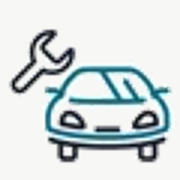
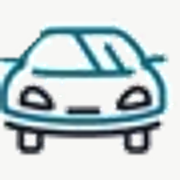
Épuration du hero et du décor, voiture seule sur l'onglet
Retirés : le badge « Ouvert le samedi », le garagiste qui marche, la page
confidentialité et son lien. Les deux « samedi » restants sont volontaires :
la ligne d'horaire réelle et la description SEO, qui portent une information
commerciale utile.

Favicon réduit à la voiture. Les pixels turquoise ont été détectés pour la
séparer de la clé : la carrosserie occupe x 28-69, la clé est entièrement à
gauche de x=28. Le découpage descend sous la boîte turquoise pour garder les
roues, sombres, et le manche de clé restant dans le coin est effacé sur une
zone où la voiture n'a aucun pixel.

PROMPTS-IMAGES.md : prompts pour les deux emplacements vides, avec les
réglages qui évitent qu'une image générée jure avec un site aussi clair. Le
document déconseille explicitement de générer un visage pour l'emplacement du
gérant et propose deux options honnêtes à la place.

Claude-Session: https://claude.ai/code/session_01CPZG2XSf9m1Ly283spVqse

diff --git a/scripts/assembler-apercu.py b/scripts/assembler-apercu.py
@@ -28,7 +28,6 @@ SP = pathlib.Path('.apercu'); SP.mkdir(exist_ok=True)
 PAGES = [
     ('/',                 'dist/index.html'),
     ('/bateaux-jet-ski',  'dist/bateaux-jet-ski/index.html'),
-    ('/confidentialite',  'dist/confidentialite/index.html'),
 ]
 
 # ── CSS : toutes les feuilles liées, dédupliquées ────────────────────────

diff --git a/PROMPTS-IMAGES.md b/PROMPTS-IMAGES.md
@@ -1,0 +1,129 @@
+# Prompts pour générer les images manquantes
+
+Deux emplacements sont encore vides sur le site. Voici de quoi les remplir.
+
+**À lire avant** : ces images seront vues par de vrais clients qui décideront
+d'appeler ou non. Une photo réelle de l'atelier vaudra toujours mieux qu'une
+image générée — elle montre *votre* hangar, *vos* machines, *votre* désordre.
+Les prompts ci-dessous sont un dépannage, pas un aboutissement.
+
+---
+
+## Réglages communs, à mettre dans chaque prompt
+
+Le site est très blanc, au trait, avec un seul accent turquoise. Une image
+saturée ou sur-éclairée cassera l'ensemble. Ajoutez donc systématiquement :
+
+```
+Photographie documentaire, lumière naturelle d'atelier, pas de flash.
+Couleurs désaturées, tons neutres et froids. Grain léger, aspect
+reportage plutôt que publicité. Aucun texte, aucun logo, aucune marque
+visible. Pas de watermark.
+```
+
+Et en négatif, si votre outil le permet :
+
+```
+Négatif : rendu 3D, aspect CGI, HDR, sur-saturation, éclairage de studio,
+sourires forcés, stock photo, texte, logos de marques, mains déformées,
+outils irréalistes.
+```
+
+---
+
+## 1. Le hors-bord démonté — `4 / 3`
+
+Utilisé deux fois : bloc « Ce qui roule, ce qui flotte » sur l'accueil, et en
+haut de la page bateaux. **C'est l'image la plus importante des deux** : c'est
+elle qui prouve le pôle nautique, qui est votre vrai différenciateur.
+
+```
+Un moteur hors-bord de bateau partiellement démonté, posé sur un support
+d'atelier, dans un garage de mécanique automobile. Le capot du moteur est
+retiré et posé à côté, on voit le bloc, les durites et les câbles. Autour,
+un établi avec des outils, un enrouleur d'air comprimé, un sol en béton
+taché d'huile. Au second plan, flou, une voiture sur un pont élévateur.
+Lumière du jour venant d'une porte de hangar ouverte, sur la gauche.
+Cadrage large horizontal, à hauteur d'homme, format 4:3.
+```
+
+**Pourquoi ce cadrage** : le moteur *et* la voiture dans la même image, c'est
+exactement l'argument « auto et nautique dans le même atelier ». Si l'outil ne
+gère pas bien le second plan, faites deux essais et gardez celui où l'on
+devine la voiture.
+
+**Variante jet-ski**, si vous préférez :
+
+```
+Un jet-ski sur sa remorque dans un atelier de mécanique, capot moteur
+ouvert, un tapis de protection posé sur la coque. Établi et outils en
+arrière-plan, sol béton, lumière naturelle latérale. Format 4:3.
+```
+
+---
+
+## 2. Le mécanicien au travail — `3 / 2`
+
+⚠ **Un avertissement, et il compte.**
+
+Cet emplacement s'appelle aujourd'hui « Nabil au travail ». Générer un visage
+et le présenter comme celui du gérant, c'est présenter un inconnu synthétique
+comme une personne réelle à des clients qui viendront le rencontrer. Ça se
+retourne mal : quelqu'un pousse la porte, ce n'est pas la même personne.
+
+**Deux options honnêtes** :
+
+**a) Ne montrer aucun visage** — c'est ce que je recommande, et le prompt est
+écrit pour ça :
+
+```
+Gros plan sur les mains d'un mécanicien serrant un raccord sur un bloc
+moteur, clé plate en main. Mains marquées de cambouis, manches de
+combinaison de travail bleue remontées. Le visage n'est pas dans le cadre.
+Arrière-plan d'atelier flou. Lumière naturelle latérale, tons neutres.
+Cadrage horizontal, format 3:2.
+```
+
+**b) Une vraie photo de Nabil.** Un téléphone récent suffit largement : de
+trois-quarts, en train de travailler, lumière de la porte du hangar dans le
+dos du photographe. C'est cinq minutes, et ça vaudra toujours mieux.
+
+Si vous choisissez (a), je renomme l'emplacement — il ne s'appellera plus
+« Nabil au travail » mais « Les mains à l'ouvrage », pour que le site ne
+prétende rien.
+
+---
+
+## 3. Si vous voulez aller plus loin
+
+Deux images supplémentaires amélioreraient nettement le site, sans être
+indispensables :
+
+**Le mur de pièces** — donnerait du corps à la page services :
+
+```
+Un mur de rangement d'atelier automobile : étagères métalliques, bacs de
+pièces détachées, filtres et courroies alignés, plaquettes de frein dans
+leurs boîtes. Vue frontale, lumière d'atelier neutre, aucune marque
+lisible. Format 3:2.
+```
+
+**Une texture d'atelier** — pour les images de partage sur les réseaux :
+
+```
+Texture rapprochée d'un établi d'atelier : métal usé, traces d'huile,
+copeaux, une clé posée. Vue du dessus, lumière rasante, très désaturé.
+Format 1200x630.
+```
+
+---
+
+## Ce que je fais des fichiers
+
+Déposez-les dans `public/brand/` par la même voie que le logo (dépôt GitHub,
+glisser-déposer dans le dossier). Je m'occupe du reste : recadrage aux
+proportions exactes, conversion AVIF + WebP, dimensions explicites pour que la
+page ne saute pas au chargement, et texte alternatif.
+
+**Nommez-les simplement** : `hors-bord.jpg`, `mains-moteur.jpg`, etc. Je
+vérifie chaque image avant de l'intégrer — jamais d'après son nom de fichier.

diff --git a/NOTES.md b/NOTES.md
@@ -579,3 +579,41 @@ immédiatement et ça trahit la boucle.
 Le bandeau d'aperçu (le tampon de build passe en commentaire HTML, invisible
 mais toujours lisible dans le source) et l'emblème voiture→bateau, avec tout
 son système de formes morphables.
+
+---
+
+## Retour client — épuration et voiture seule sur l'onglet
+
+Retirés : le badge « Ouvert le samedi » du hero, le garagiste qui marche, la
+page confidentialité et son lien.
+
+⚠ Deux occurrences de « samedi » subsistent volontairement : la ligne de
+l'horaire réel dans le tableau, et la description SEO « ouvert du lundi au
+samedi ». Le client visait le badge, pas le fait d'ouvrir le samedi — le
+supprimer partout aurait caché une information commerciale utile.
+
+### La voiture seule pour l'onglet
+
+Le favicon portait la voiture ET la clé. Pour n'isoler que la voiture, j'ai
+détecté les pixels turquoise (bleu et vert nettement au-dessus du rouge) : la
+carrosserie occupe **x 28-69, y 22-47**, alors que la clé, neutre et sombre,
+est entièrement à gauche de x=28.
+
+Le découpage se borne donc sur cette mesure, en descendant sous y=47 pour
+garder les roues, qui sont sombres et n'apparaissent pas dans la boîte
+turquoise. Le manche de la clé mordait encore dans le coin haut-gauche : effacé
+sur un triangle de 10 × 10 px, zone où la voiture n'a aucun pixel — vérifié sur
+le rendu avant d'effacer quoi que ce soit.
+
+### PROMPTS-IMAGES.md
+
+Prompts fournis pour les deux emplacements vides, avec les réglages communs
+(désaturé, lumière naturelle, aspect reportage) qui évitent qu'une image
+générée jure avec un site aussi blanc.
+
+⚠ **Un avertissement inscrit dans le document** : l'emplacement « Nabil au
+travail » ne doit pas recevoir un visage généré. Présenter un inconnu
+synthétique comme le gérant à des clients qui viendront le rencontrer se
+retourne mal. Deux options honnêtes proposées — un cadrage sur les mains, sans
+visage, ou une vraie photo prise au téléphone. Si le cadrage mains est retenu,
+l'emplacement sera renommé pour que le site ne prétende rien.
